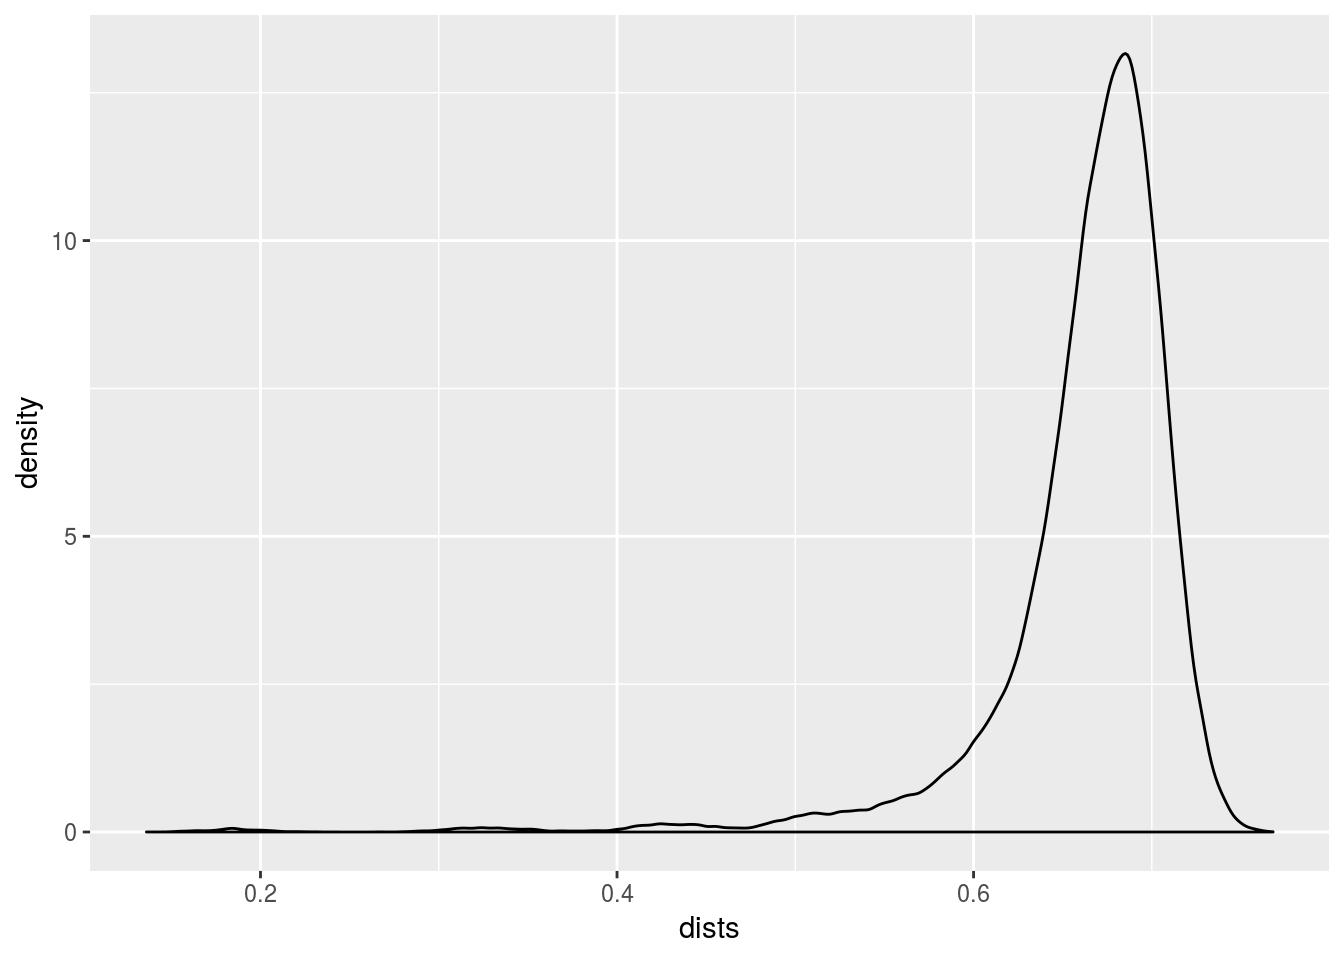
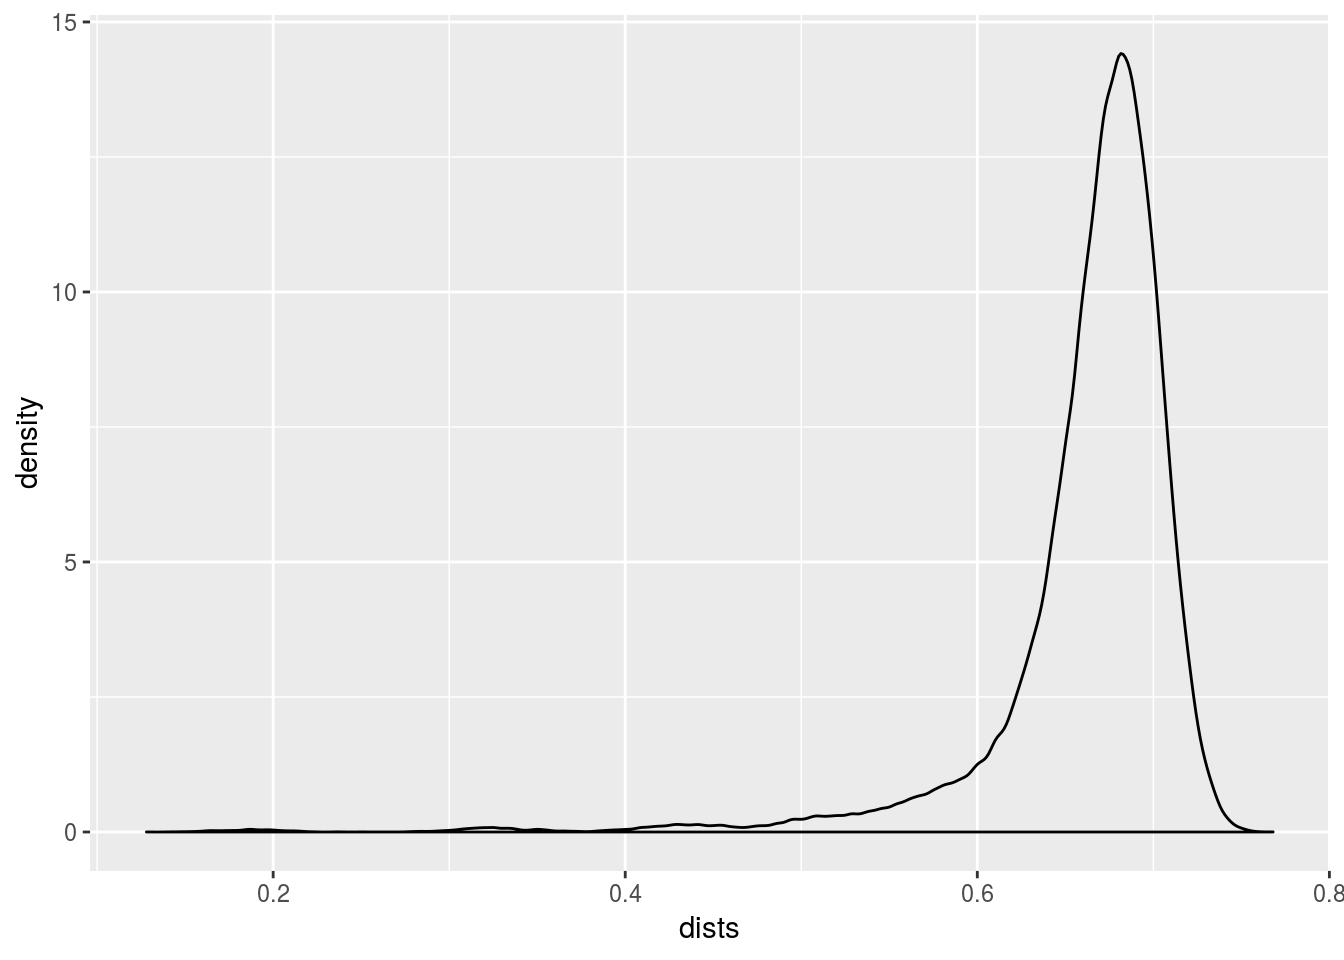
tweaking themes

diff --git a/basic_concepts/_book/simple-first-simulation.html b/basic_concepts/_book/simple-first-simulation.html
@@ -85,7 +85,7 @@
 </div>
 <div id="simple-first-simulation" class="section level1">
 <h1><span class="header-section-number">1</span> Simple first simulation</h1>
-<p>A first simulation to demonstrate the process and the measuring tools. Table <a href="#tab:sim-pop-config">1.1</a> shows the configuration that was used to call <code>sim_pop</code> from the <code>yasss</code> package.</p>
+<p>A first simulation to demonstrate the process and the measuring tools. Table <a href="#tab:sim-pop-config">1.1</a> shows the configuration that was used to call <code>sim_pop</code> from the <code>yasss</code> package. A high level summary of the entire genealogy is provided in Table <a href="#tab:first-sum-tab">1.2</a>.</p>
 <table>
 <caption><span id="tab:sim-pop-config">Table 1.1: </span>Configuration with which sim_pop was called.</caption>
 <thead>
@@ -134,7 +134,7 @@
 </tbody>
 </table>
 <table>
-<caption>Individuals per generation and the average distance to the original ancestor for the generation.</caption>
+<caption><span id="tab:first-sum-tab">Table 1.2: </span>Individuals per generation and the average distance to the original ancestor for the generation.</caption>
 <thead>
 <tr class="header">
 <th align="right">Gen. Num.</th>
@@ -151,87 +151,87 @@
 <td align="right">1</td>
 <td align="right">0.0000</td>
 <td align="right">0.0000000</td>
-<td align="right">0.9943954</td>
-<td align="right">0.9943954</td>
+<td align="right">0.5121445</td>
+<td align="right">0.5121445</td>
 </tr>
 <tr class="even">
 <td align="right">1</td>
 <td align="right">2</td>
-<td align="right">53.0000</td>
-<td align="right">0.1060000</td>
-<td align="right">0.6362068</td>
-<td align="right">0.6362068</td>
+<td align="right">55.0000</td>
+<td align="right">0.1100000</td>
+<td align="right">0.3774212</td>
+<td align="right">0.3774212</td>
 </tr>
 <tr class="odd">
 <td align="right">2</td>
 <td align="right">4</td>
-<td align="right">91.0000</td>
-<td align="right">0.1820000</td>
-<td align="right">0.3758924</td>
-<td align="right">0.3758924</td>
+<td align="right">91.7500</td>
+<td align="right">0.1835000</td>
+<td align="right">0.4179427</td>
+<td align="right">0.4179427</td>
 </tr>
 <tr class="even">
 <td align="right">3</td>
 <td align="right">8</td>
-<td align="right">132.2500</td>
-<td align="right">0.2645000</td>
-<td align="right">0.3247602</td>
-<td align="right">0.3247602</td>
+<td align="right">128.3750</td>
+<td align="right">0.2567500</td>
+<td align="right">0.4789701</td>
+<td align="right">0.4789701</td>
 </tr>
 <tr class="odd">
 <td align="right">4</td>
 <td align="right">16</td>
-<td align="right">161.5000</td>
-<td align="right">0.3230000</td>
-<td align="right">0.4128184</td>
-<td align="right">0.4128184</td>
+<td align="right">162.6250</td>
+<td align="right">0.3252500</td>
+<td align="right">0.6154427</td>
+<td align="right">0.6154427</td>
 </tr>
 <tr class="even">
 <td align="right">5</td>
 <td align="right">32</td>
-<td align="right">189.7812</td>
-<td align="right">0.3795625</td>
-<td align="right">0.5511378</td>
-<td align="right">0.5511378</td>
+<td align="right">191.0625</td>
+<td align="right">0.3821250</td>
+<td align="right">0.5177955</td>
+<td align="right">0.5177955</td>
 </tr>
 <tr class="odd">
 <td align="right">6</td>
 <td align="right">64</td>
-<td align="right">213.8906</td>
-<td align="right">0.4277812</td>
-<td align="right">0.5227730</td>
-<td align="right">0.5227730</td>
+<td align="right">215.5625</td>
+<td align="right">0.4311250</td>
+<td align="right">0.4788789</td>
+<td align="right">0.4788789</td>
 </tr>
 <tr class="even">
 <td align="right">7</td>
 <td align="right">128</td>
-<td align="right">234.9297</td>
-<td align="right">0.4698594</td>
-<td align="right">0.5154134</td>
-<td align="right">0.5154134</td>
+<td align="right">236.4141</td>
+<td align="right">0.4728281</td>
+<td align="right">0.4770417</td>
+<td align="right">0.4770417</td>
 </tr>
 <tr class="odd">
 <td align="right">8</td>
 <td align="right">256</td>
-<td align="right">254.2852</td>
-<td align="right">0.5085703</td>
-<td align="right">0.4993996</td>
-<td align="right">0.4993996</td>
+<td align="right">254.7773</td>
+<td align="right">0.5095547</td>
+<td align="right">0.4911690</td>
+<td align="right">0.4911690</td>
 </tr>
 <tr class="even">
 <td align="right">9</td>
 <td align="right">512</td>
-<td align="right">270.2910</td>
-<td align="right">0.5405820</td>
-<td align="right">0.4768173</td>
-<td align="right">0.4768173</td>
+<td align="right">270.8340</td>
+<td align="right">0.5416680</td>
+<td align="right">0.5184223</td>
+<td align="right">0.5184223</td>
 </tr>
 </tbody>
 </table>
 <div id="last-generation" class="section level2">
 <h2><span class="header-section-number">1.1</span> Last Generation</h2>
-<p>The average pairwise HD is 331.71 and normalized by the length of the sequence it is 0.663.</p>
-<p><img src="_main_files/figure-html/unnamed-chunk-5-1.png" width="672" /></p>
+<p>The average pairwise HD is 332.35 and normalized by the length of the sequence it is 0.665.</p>
+<p><img src="_main_files/figure-html/unnamed-chunk-4-1.png" width="672" /></p>
 <p>Figure: Density plot of the pariwise distances in the last generation.</p>
 <table>
 <caption>The Deciles of the pairwise HDs.</caption>
@@ -244,7 +244,7 @@
 <tbody>
 <tr class="odd">
 <td align="left">0%</td>
-<td align="right">0.136</td>
+<td align="right">0.134</td>
 </tr>
 <tr class="even">
 <td align="left">10%</td>
@@ -260,27 +260,27 @@
 </tr>
 <tr class="odd">
 <td align="left">40%</td>
-<td align="right">0.666</td>
+<td align="right">0.668</td>
 </tr>
 <tr class="even">
 <td align="left">50%</td>
-<td align="right">0.674</td>
+<td align="right">0.676</td>
 </tr>
 <tr class="odd">
 <td align="left">60%</td>
-<td align="right">0.682</td>
+<td align="right">0.684</td>
 </tr>
 <tr class="even">
 <td align="left">70%</td>
-<td align="right">0.690</td>
+<td align="right">0.692</td>
 </tr>
 <tr class="odd">
 <td align="left">80%</td>
-<td align="right">0.698</td>
+<td align="right">0.700</td>
 </tr>
 <tr class="even">
 <td align="left">90%</td>
-<td align="right">0.708</td>
+<td align="right">0.710</td>
 </tr>
 <tr class="odd">
 <td align="left">100%</td>
@@ -312,8 +312,8 @@ gitbook.require(["gitbook"], function(gitbook) {
 gitbook.start({
 "sharing": {
 "github": false,
-"facebook": true,
-"twitter": true,
+"facebook": false,
+"twitter": false,
 "google": false,
 "linkedin": false,
 "weibo": false,
@@ -322,7 +322,7 @@ gitbook.start({
 "all": ["facebook", "google", "twitter", "linkedin", "weibo", "instapaper"]
 },
 "fontsettings": {
-"theme": "white",
+"theme": "sepia",
 "family": "sans",
 "size": 2
 },
